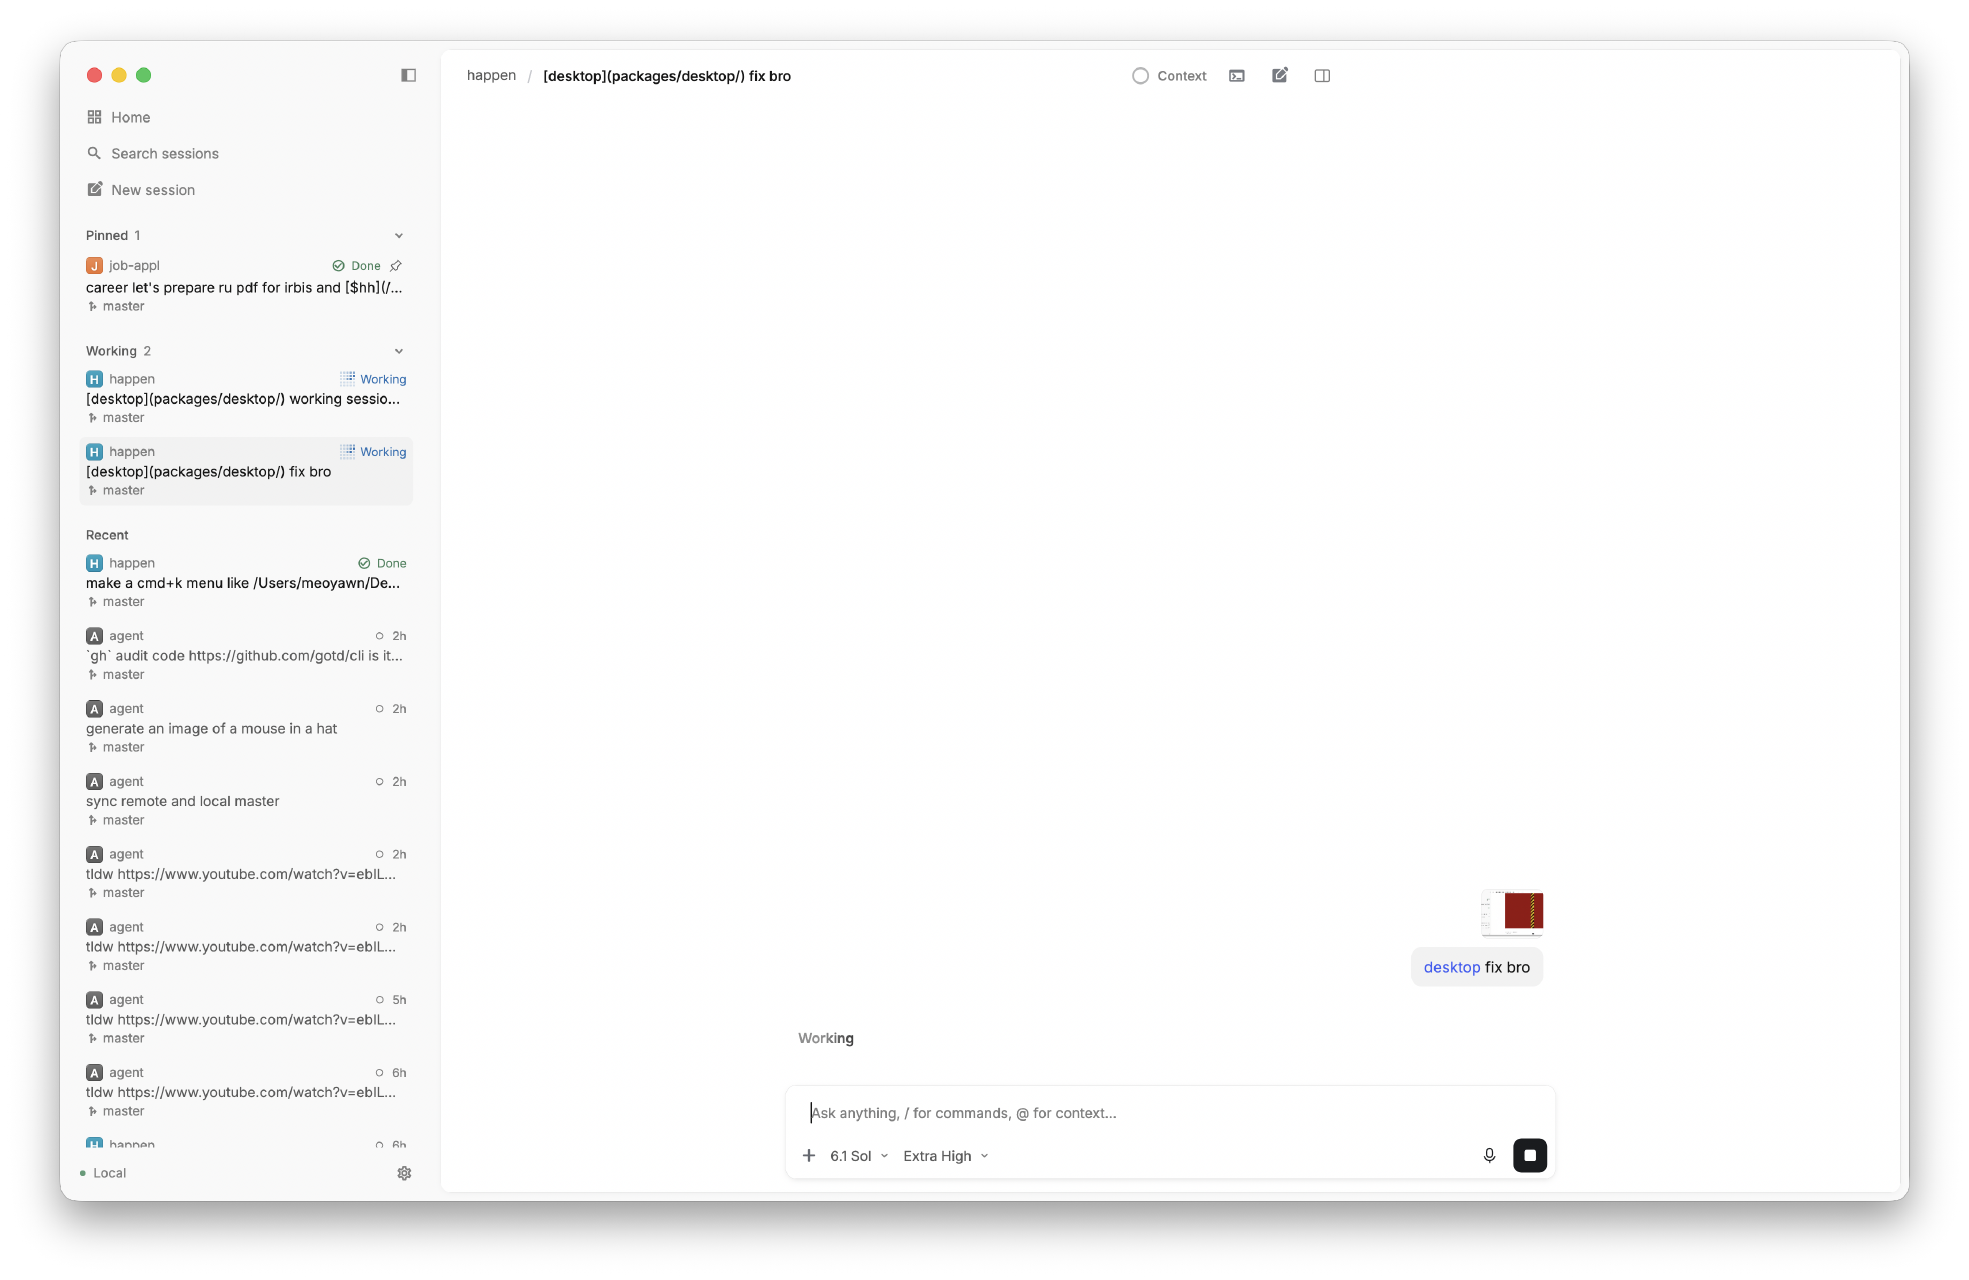
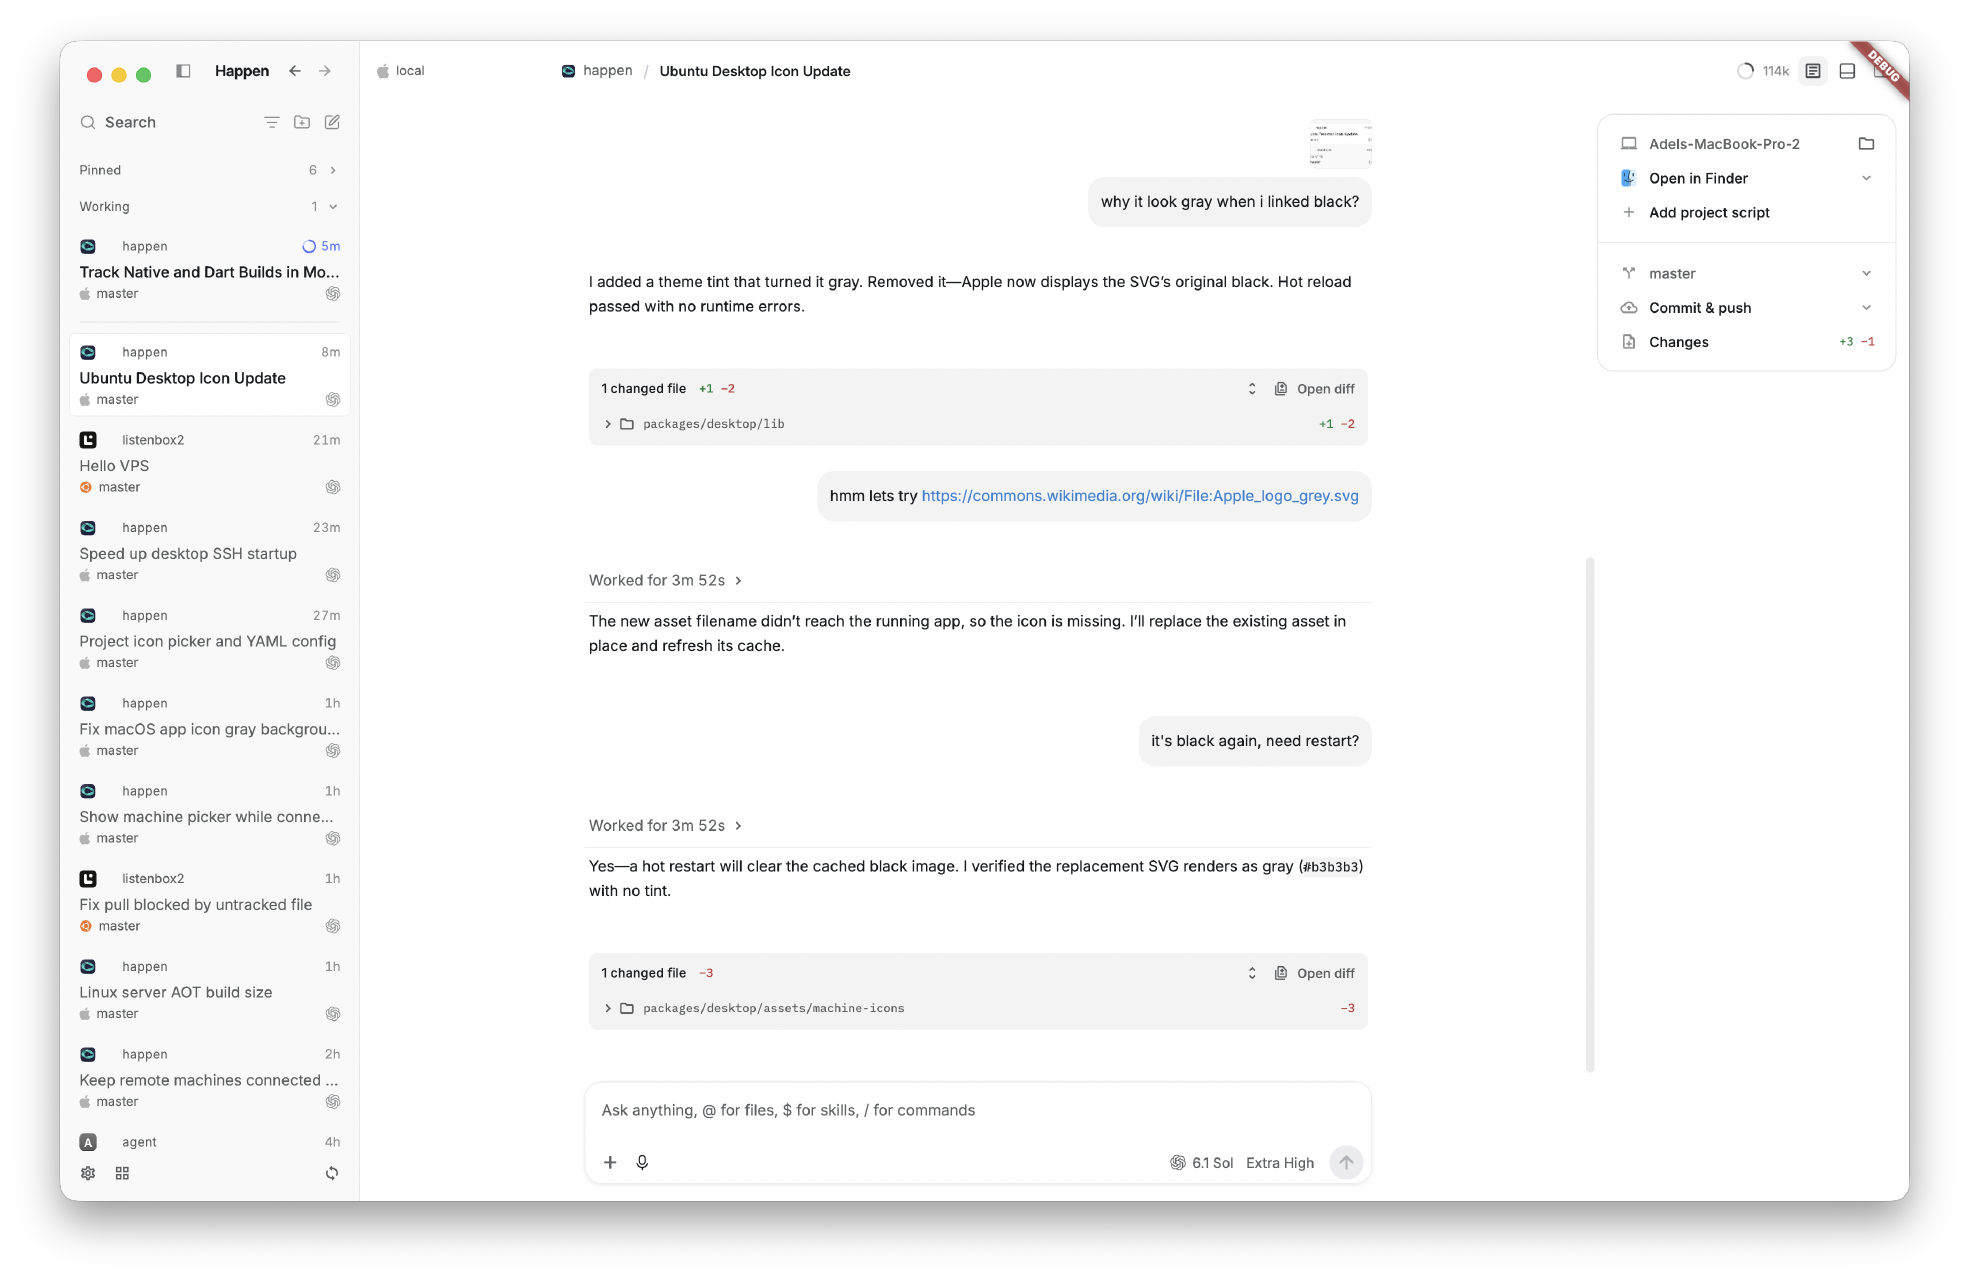
Refresh app screenshot and server build docs

diff --git a/packages/server/README.md b/packages/server/README.md
@@ -14,7 +14,9 @@ Build, upload and restart the daemon with one command:
 moonx deploy-server
 ```
 
-`deploy-server` depends on the cacheable `build-server` task, which builds Linux x64. Its Moon dependencies build QuickJS, SQLite, pty2 and flutter_pty2 independently with their package hooks. Each native task tracks its build tooling and lockfile; QuickJS also tracks its hook, C sources and headers, including the vendored submodule. Moon caches each shared library as an output. The Dart AOT task tracks the server's Dart package graph and consumes those native outputs with `cacheStrategy: outputs`, so Dart-only edits reuse the native libraries, and native changes invalidate Dart compilation only when a library changes. Moon also restores the final executable, checksum and build report on a cache hit. Desktop code, tests, documentation and private connection settings do not invalidate the build. Upload and restart run on every deployment. The deployment checks the VPS architecture and artifact checksums before uploading.
+`deploy-server` depends on the cacheable `build-server` task, which builds Linux x64. Its Moon dependencies build QuickJS, SQLite and flutter_pty2 independently with their package hooks. Agent commands and interactive terminals share flutter_pty2 3.x, a Dart FFI package with no Flutter SDK dependency. Each native task tracks its build tooling and lockfile; QuickJS also tracks its hook, C sources and headers, including the vendored submodule. Moon caches each shared library as an output.
+
+The Dart AOT task tracks the server's Dart package graph and consumes those native outputs with `cacheStrategy: outputs`, so Dart-only edits reuse the native libraries, and native changes invalidate Dart compilation only when a library changes. Moon also restores the final executable, checksum and build report on a cache hit. Desktop code, tests, documentation and private connection settings do not invalidate the build. Upload and restart run on every deployment. The deployment checks the VPS architecture and artifact checksums before uploading.
 
 To reference the existing Codex login **on the VPS** during the first deployment:
 

diff --git a/README.md b/README.md
@@ -2,7 +2,7 @@
 
 Our own AI coding agent harness, built in Dart with a Flutter desktop app.
 
-![Happen showing a coding conversation, inline tool activity, and the message composer](packages/desktop/screenshots/conversation.png)
+![Happen desktop app showing project conversations, inline code changes, and machine and Git controls](packages/desktop/screenshots/conversation.png)
 
 Work across projects and conversations, inspect the context sent to the model,
 run tools and terminals, and steer or interrupt an agent while it works.
